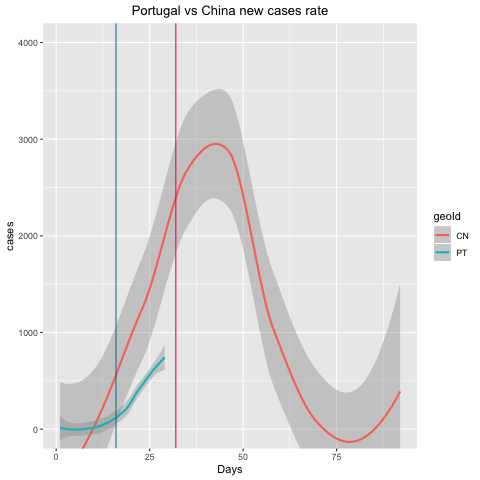
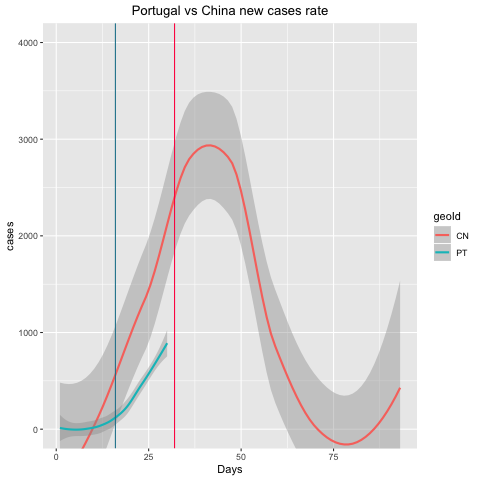
daily update

diff --git a/README.md b/README.md
@@ -11,29 +11,29 @@ I'll keep this repo with the graphs daily updated.
 
 *Obtained with the script* `propagationMap.R`
 
-### Updated World Values - 2020/03/31
+### Updated World Values - 2020/04/01
 __Total Deaths per Country - worst 10__
 
 |geoId | deaths|
 |:-----|------:|
-|IT    |  11591|
-|ES    |   7340|
-|CN    |   3309|
-|US    |   3170|
-|FR    |   3024|
-|IR    |   2757|
-|UK    |   1408|
-|NL    |    864|
-|DE    |    583|
-|BE    |    513|
+|IT    |  12430|
+|ES    |   8189|
+|US    |   4079|
+|FR    |   3523|
+|CN    |   3310|
+|IR    |   2898|
+|UK    |   1789|
+|NL    |   1039|
+|DE    |    732|
+|BE    |    705|
 
-__Total Death Count__: 37272
+__Total Death Count__: 41887
 
-__Portugal in Detail at 2020/03/31__ *sourced from https://www.worldometers.info/*
+__Portugal in Detail at 2020/04/01__ *sourced from https://www.worldometers.info/*
 
-|Country,Other |TotalCases |NewCases |TotalDeaths | NewDeaths|TotalRecovered |ActiveCases |Serious,Critical |Tot Cases/1M pop | Deaths/1M pop|Reported1st case |
-|:-------------|:----------|:--------|:-----------|---------:|:--------------|:-----------|:----------------|:----------------|-------------:|:----------------|
-|Portugal      |7,443      |+1,035   |160         |        20|43             |7,240       |188              |730              |            16|Mar 01           |
+|Country,Other |TotalCases |NewCases |TotalDeaths |NewDeaths |TotalRecovered |ActiveCases |Serious,Critical |Tot Cases/1M pop | Deaths/1M pop|Reported1st case |
+|:-------------|:----------|:--------|:-----------|:---------|:--------------|:-----------|:----------------|:----------------|-------------:|:----------------|
+|Portugal      |8,251      |+808     |187         |+27       |43             |8,021       |230              |809              |            18|Mar 01           |
 
 ### Scripts
 `script.R` performs the data preparation and then followed by the steps required as described:
